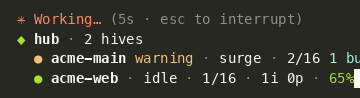
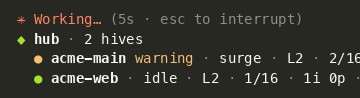
Show the ACMM level and a bypassed budget in the hive mod
Each hive line now carries its ACMM level after the governor mode (L2),
and the /hive pane adds the level the hive aims for and its advice
(L2 → L3 stay). Hives that do not report a level look as before.

A budget turned off with the hive's bypass used to show as exhausted in
red and toast. The mod now reads /api/budget-ignore with each poll and
shows such a budget dim as 63% off, without the toast. A failing
endpoint counts as no bypass. The snapshot atom moves to hives-4 so an
old snapshot without the level is not drawn.

Claude-Session: https://claude.ai/code/session_0149ALKwAA2RWB9SwVQ2pnWA

diff --git a/plugins/hive/tests/hive.test.tsx b/plugins/hive/tests/hive.test.tsx
@@ -23,6 +23,8 @@ const PS = [
 const status = (hiveId: string, health: string, repo: string, issues: number, prs: number) => ({
   hiveId,
   governor: { mode: hiveId.endsWith('main') ? 'surge' : 'idle', nextKickAt: '2026-11-25T12:46:07Z' },
+  // Only acme-main reports its ACMM level; acme-web is an older hive.
+  ...(hiveId.endsWith('main') ? { acmmLevel: 2, acmmAdvice: { CurrentLevel: 2, TargetLevel: 3, Advise: 'stay' } } : {}),
   deepHealth: { status: health, checks: health === 'ok' ? [] : [{ name: 'tokens', status: 'warn', detail: 'zero consumed' }] },
   budget: { BUDGET_PCT_USED: 65.2, BURN_RATE_HOURLY: 38852 },
   agents: [
@@ -45,7 +47,11 @@ const links = (): Record<string, Link> => ({
   3011: { hubUrl: 'http://host.containers.internal:3021', beat: pass },
 })
 
-function engine(on: On, answers: Record<string, number> = {}, link: Record<string, Link> = links(), ps: unknown[] = PS) {
+// Each port's /api/budget-ignore answer: a body, or a status code to fail
+// with. A port left out answers 404, like any path the fake does not know.
+type Extra = { status?: Record<string, unknown>; ignore?: Record<string, unknown> }
+
+function engine(on: On, answers: Record<string, number> = {}, link: Record<string, Link> = links(), ps: unknown[] = PS, extra: Extra = {}) {
   const seen = { panes: [] as string[], toasts: [] as string[], auth: new Map<string, string | undefined>() }
   on('session.start', (_, e) => ({ cwd: e.cwd }))
   on('command.register', (_, e) => ({ value: { command: e.name } }))
@@ -58,6 +64,9 @@ function engine(on: On, answers: Record<string, number> = {}, link: Record<strin
   on('http.fetch', (_, e) => {
     const port = /:(\d+)\//.exec(e.url)?.[1] ?? ''
     seen.auth.set(port, (e.init?.headers as Record<string, string> | undefined)?.Authorization)
+    const ignore = extra.ignore?.[port]
+    const fail = (code: number) => ({ value: { status: code, ok: false, headers: {}, text: 'failed' } })
+    if (e.url.endsWith('/api/budget-ignore') && (ignore === undefined || typeof ignore === 'number')) return fail(ignore ?? 404)
     const code = answers[port] ?? 200
     const body = e.url.endsWith('/api/registry')
       ? { hives: [], updatedAt: 'now' }
@@ -65,7 +74,12 @@ function engine(on: On, answers: Record<string, number> = {}, link: Record<strin
         ? { hub_url: link[port]?.hubUrl }
         : e.url.endsWith('/api/health/deep')
           ? { checks: link[port]?.beat ? { hub_heartbeat: link[port]?.beat } : {} }
-          : STATUS[port]
+          : e.url.endsWith('/api/budget-ignore')
+            ? ignore
+            : e.url.endsWith('/api/status')
+              ? (extra.status ?? STATUS)[port]
+              : undefined
+    if (body === undefined && !e.url.endsWith('/api/status')) return fail(404)
     return { value: { status: code, ok: code < 300, headers: {}, text: JSON.stringify(body ?? {}) } }
   })
   on('ui.status', () => ({ value: undefined }))
@@ -123,7 +137,7 @@ test('the spinner keeps the engine line and adds one line per hive', async ($, o
   const ui = await $.ui.mount({ plugin: 'hive', surface: 'terminal', component: 'Spinner', requestId: 'main', props: SPINNER })
   const text = shown(await ui.drawn())
   expect(text).toContain('Baking…')
-  expect(text).toContain('acme-main warning · surge · 1/2 · 3i 35p · 65%')
+  expect(text).toContain('acme-main warning · surge · L2 · 1/2 · 3i 35p · 65%')
   expect(text).toContain('acme-web · idle · 1/2 · 1i 0p · 65%')
   expect(text).toContain('◆ hub · 2 hives')
   expect(text).not.toContain(':3021')
@@ -245,4 +259,70 @@ test('with no hub container the hives stay flat', async ($, on) => {
   expect(pane).not.toContain('◆')
   expect(pane).not.toContain('  ● ')
   expect(pane).not.toContain('hb⚠')
+})
+
+test('a hive shows its ACMM level, and the pane its target and advice', async ($, on) => {
+  const clock = mock.clock(on, { now: 1_800_000_000_000 })
+  engine(on)
+  await start($)
+  await clock.advance(100)
+  const spinner = shown(await (await $.ui.mount({ plugin: 'hive', surface: 'terminal', component: 'Spinner', requestId: 'main', props: SPINNER })).drawn())
+  expect(spinner).toContain('acme-main warning · surge · L2 · 1/2')
+  expect(spinner).not.toContain('→')
+  const pane = shown(await (await $.ui.mount({ plugin: 'hive', surface: 'terminal', component: 'Pane', requestId: 'hive', props: {} as never })).drawn())
+  expect(pane).toMatch(/acme-main warning · surge \S+ · L2 → L3 stay · 1\/2/)
+})
+
+test('a hive without ACMM fields has no level segment', async ($, on) => {
+  const clock = mock.clock(on, { now: 1_800_000_000_000 })
+  engine(on)
+  await start($)
+  await clock.advance(100)
+  const spinner = shown(await (await $.ui.mount({ plugin: 'hive', surface: 'terminal', component: 'Spinner', requestId: 'main', props: SPINNER })).drawn())
+  expect(spinner).toContain('acme-web · idle · 1/2 · 1i 0p · 65%')
+  const pane = shown(await (await $.ui.mount({ plugin: 'hive', surface: 'terminal', component: 'Pane', requestId: 'hive', props: {} as never })).drawn())
+  expect(pane).toMatch(/acme-web · idle \S+ · 1\/2/)
+})
+
+const spent = (): Record<string, unknown> => ({
+  ...STATUS,
+  3011: { ...(STATUS[3011] as object), budget: { BUDGET_PCT_USED: 104.4, BURN_RATE_HOURLY: 38852 } },
+})
+
+test('a bypassed budget shows dim as off and raises no exhausted toast', async ($, on) => {
+  const clock = mock.clock(on, { now: 1_800_000_000_000 })
+  const seen = engine(on, {}, links(), PS, { status: spent(), ignore: { 3011: { ignored: true, agents: [], by_agent: {} } } })
+  await start($)
+  await clock.advance(100)
+  await clock.advance(15_000)
+  expect(seen.toasts.filter(t => t.includes('budget'))).toEqual([])
+  const spinner = shown(await (await $.ui.mount({ plugin: 'hive', surface: 'terminal', component: 'Spinner', requestId: 'main', props: SPINNER })).drawn())
+  expect(spinner).toContain('acme-main warning · surge · L2 · 1/2 · 3i 35p · 104% off')
+  expect(spinner).toContain('acme-web · idle · 1/2 · 1i 0p · 65%')
+  expect(spinner).not.toContain('65% off')
+  const pane = shown(await (await $.ui.mount({ plugin: 'hive', surface: 'terminal', component: 'Pane', requestId: 'hive', props: {} as never })).drawn())
+  expect(pane).toContain('104% off 39k/h')
+})
+
+test('a bypassed budget the hive does not report shows as budget off', async ($, on) => {
+  const clock = mock.clock(on, { now: 1_800_000_000_000 })
+  const status = { ...STATUS, 3011: { ...(STATUS[3011] as object), budget: {} } }
+  engine(on, {}, links(), PS, { status, ignore: { 3011: { ignored: true } } })
+  await start($)
+  await clock.advance(100)
+  const spinner = shown(await (await $.ui.mount({ plugin: 'hive', surface: 'terminal', component: 'Spinner', requestId: 'main', props: SPINNER })).drawn())
+  expect(spinner).toContain('3i 35p · budget off')
+})
+
+test('a failing budget-ignore endpoint leaves the hive as it was', async ($, on) => {
+  const clock = mock.clock(on, { now: 1_800_000_000_000 })
+  const seen = engine(on, {}, links(), PS, { status: spent(), ignore: { 3011: 500 } })
+  await start($)
+  await clock.advance(100)
+  expect(seen.toasts).toContain('acme-main budget exhausted')
+  expect(seen.toasts.filter(t => t.includes('HTTP'))).toEqual([])
+  const spinner = shown(await (await $.ui.mount({ plugin: 'hive', surface: 'terminal', component: 'Spinner', requestId: 'main', props: SPINNER })).drawn())
+  expect(spinner).toContain('acme-main warning · surge · L2 · 1/2 · 3i 35p · 104%')
+  expect(spinner).not.toContain('off')
+  expect(spinner).not.toContain('HTTP 500')
 })

diff --git a/plugins/hive/hooks/register.tsx b/plugins/hive/hooks/register.tsx
@@ -11,7 +11,7 @@ const HIVE_IMAGE = 'hivecommons/hive'
 // The podman Homebrew installs, for a session whose PATH lacks it.
 const PODMAN = ['podman', '/opt/homebrew/bin/podman', '/usr/local/bin/podman']
 
-const snapshot = atom({ plugin: 'hive', key: 'snapshot' } as const, null, { shape: 'hives-3' })
+const snapshot = atom({ plugin: 'hive', key: 'snapshot' } as const, null, { shape: 'hives-4' })
 
 // Each hive container's dashboard token, read from its environment. Kept in
 // memory only, never in $.state; a reload reads it again.
@@ -85,7 +85,8 @@ async function token($: EngineInterface, container: string): Promise<string | nu
 function empty(container: string, port: number | null, error: string | null): Hive {
   return {
     container, port, error, hiveId: names.get(container) ?? container, health: 'unknown', checks: [], governor: '?', nextKickAt: null,
-    budgetPct: null, burnHourly: null, ghRemaining: null, weekUSD: null, agents: [], repos: [],
+    acmm: null, acmmTarget: null, acmmAdvise: '', budgetPct: null, budgetOff: false, burnHourly: null, ghRemaining: null,
+    weekUSD: null, agents: [], repos: [],
     hub: null, heartbeat: null, heartbeatDetail: '',
   }
 }
@@ -102,6 +103,9 @@ export function parse(s: Raw, container: string, port: number | null): Hive {
       .map((c: Raw): Check => ({ name: str(c.name), status: str(c.status), detail: str(c.detail) })),
     governor: str(s.governor?.mode) || '?',
     nextKickAt: kick ? Date.parse(kick) : null,
+    acmm: num(s.acmmLevel) ?? num(s.acmmAdvice?.CurrentLevel),
+    acmmTarget: num(s.acmmAdvice?.TargetLevel),
+    acmmAdvise: str(s.acmmAdvice?.Advise),
     budgetPct: num(b.BUDGET_PCT_USED),
     burnHourly: num(b.BURN_RATE_HOURLY),
     ghRemaining: num(s.ghRateLimits?.core?.remaining),
@@ -159,10 +163,11 @@ async function pollHive($: EngineInterface, found: Found, hubs: Found[]): Promis
     const t = await token($, container)
     const headers = t ? { Authorization: `Bearer ${t}` } : undefined
     const base = `http://127.0.0.1:${port}`
-    const [r, config, deep] = await Promise.all([
+    const [r, config, deep, ignore] = await Promise.all([
       $.http.fetch(`${base}/api/status`, headers ? { headers } : undefined),
       getJson($, `${base}/api/config`, headers),
       getJson($, `${base}/api/health/deep`, headers),
+      getJson($, `${base}/api/budget-ignore`, headers),
     ])
     if (r.status === 401) tokens.delete(container) // re-read on the next poll
     if (!r.ok) throw new Error(`HTTP ${r.status}`)
@@ -171,7 +176,8 @@ async function pollHive($: EngineInterface, found: Found, hubs: Found[]): Promis
     if (s.status === 'initializing') {
       return { ...empty(container, port, null), health: 'starting', governor: str(s.startupPhaseLabel) || 'starting' }
     }
-    const hive = { ...parse(s, container, port), ...membership(config, deep, hubs) }
+    // The budget bypass is global on the hive and not in /api/status.
+    const hive = { ...parse(s, container, port), ...membership(config, deep, hubs), budgetOff: ignore?.ignored === true }
     names.set(container, hive.hiveId)
     return hive
   } catch (err) {
@@ -206,7 +212,7 @@ async function alert($: EngineInterface, snap: Snapshot): Promise<void> {
   for (const hv of snap.hives) {
     if (hv.error) now.set(`${hv.container} down`, `${label(hv)}: ${hv.error}`)
     for (const c of hv.checks.filter(c => c.status === 'fail')) now.set(`${hv.container} ${c.name}`, `${label(hv)} ${c.name} failing`)
-    if (hv.budgetPct !== null && hv.budgetPct >= 100) now.set(`${hv.container} budget`, `${label(hv)} budget exhausted`)
+    if (hv.budgetPct !== null && hv.budgetPct >= 100 && !hv.budgetOff) now.set(`${hv.container} budget`, `${label(hv)} budget exhausted`)
     if (hv.hub && hv.heartbeat === 'warn') now.set(`${hv.container} heartbeat`, `${label(hv)} heartbeat to ${hv.hub} not accepted`)
   }
   for (const [key, text] of now) if (!alerting.has(key)) void $.ui.toast(text)
@@ -262,7 +268,7 @@ function hubLine({ Text }: Ui, hb: Hub, children: number, long: boolean) {
   )
 }
 
-// One line per hive: ● name health · governor · agents up/total · issues/PRs · budget.
+// One line per hive: ● name health · governor · ACMM level · agents up/total · issues/PRs · budget.
 function line({ Text }: Ui, hv: Hive, long: boolean, nested: boolean) {
   const pad = nested ? '  ' : ''
   if (hv.error) {
@@ -283,13 +289,28 @@ function line({ Text }: Ui, hv: Hive, long: boolean, nested: boolean) {
       {hv.health !== 'ok' ? <Text color={dot(hv)}> {hv.health}</Text> : null}
       <Text dimColor> · </Text>{hv.governor}
       {long && hv.nextKickAt ? <Text dimColor> {clock(hv.nextKickAt)}</Text> : null}
+      {hv.acmm !== null ? (
+        <Text>
+          <Text dimColor> · </Text>L{hv.acmm}
+          {long && hv.acmmTarget !== null && hv.acmmTarget !== hv.acmm && hv.acmmAdvise ? (
+            <Text dimColor> → L{hv.acmmTarget} {hv.acmmAdvise}</Text>
+          ) : null}
+        </Text>
+      ) : null}
       <Text dimColor> · </Text>{up}/{hv.agents.length}{busy ? <Text color="cyan"> {busy} busy</Text> : null}
       <Text dimColor> · </Text>{issues}i {prs}p
       {hv.budgetPct !== null ? (
         <Text>
-          <Text dimColor> · </Text><Text color={level(hv.budgetPct)}>{Math.round(hv.budgetPct)}%</Text>
+          <Text dimColor> · </Text>
+          {hv.budgetOff ? (
+            <Text dimColor>{Math.round(hv.budgetPct)}% off</Text>
+          ) : (
+            <Text color={level(hv.budgetPct)}>{Math.round(hv.budgetPct)}%</Text>
+          )}
           {long && hv.burnHourly ? <Text dimColor> {compact(hv.burnHourly)}/h</Text> : null}
         </Text>
+      ) : hv.budgetOff ? (
+        <Text dimColor> · budget off</Text>
       ) : null}
       {long && hv.weekUSD ? <Text dimColor> · ${hv.weekUSD.toFixed(2)}/wk</Text> : null}
       {long && hv.port ? <Text dimColor> · :{hv.port}</Text> : null}

diff --git a/plugins/hive/types/index.d.ts b/plugins/hive/types/index.d.ts
@@ -12,7 +12,11 @@ export type Hive = {
   checks: Check[] // the ones not passing
   governor: string
   nextKickAt: number | null
+  acmm: number | null // the hive's ACMM level; null when it does not report one
+  acmmTarget: number | null // the level its advice aims for
+  acmmAdvise: string // the advice itself, such as stay; '' without one
   budgetPct: number | null
+  budgetOff: boolean // budgets bypassed on the hive, from /api/budget-ignore
   burnHourly: number | null
   ghRemaining: number | null
   weekUSD: number | null

diff --git a/plugins/hive/README.md b/plugins/hive/README.md
@@ -9,8 +9,8 @@ much of the token budget is spent.
 
 ```
 ◆ hub · 2 hives
-  ● acme-main warning · surge · 2/16 1 busy · 6i 78p · 12%
-  ● acme-web · idle · 1/16 · 1i 0p · 65%
+  ● acme-main warning · surge · L2 · 2/16 1 busy · 6i 78p · 12%
+  ● acme-web · idle · L2 · 1/16 · 1i 0p · 65%
 ```
 
 `/hive` opens a pane with two lines per hive: the same line plus the next
@@ -18,6 +18,13 @@ governor kick, burn rate, cost this week and port, then the running agents,
 each repo with its issues, PRs, ready (↑) and held (⏸) work, and any health
 check that is not passing. The pane also opens by itself while a conversation
 is still empty, and closes at your next prompt.
+
+`L2` after the governor mode is the hive's ACMM level; a hive that does not
+report one has no such segment. In the pane it also shows the level the hive's
+advice aims for and the advice itself, `L2 → L3 stay`, when that target is
+another level. A hive whose budgets are bypassed (read from its
+`/api/budget-ignore`) shows its budget dim as `63% off`, or `budget off` when
+it reports no budget, and never toasts that its budget ran out.
 
 A toast and a status line entry say when a hive stops answering, a health
 check fails or a budget runs out. Each toasts once until it clears. Warnings
